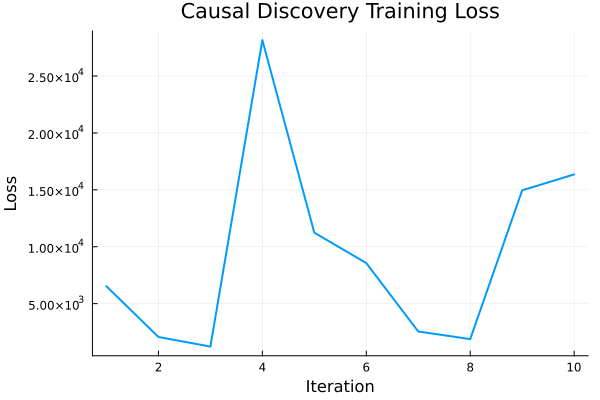
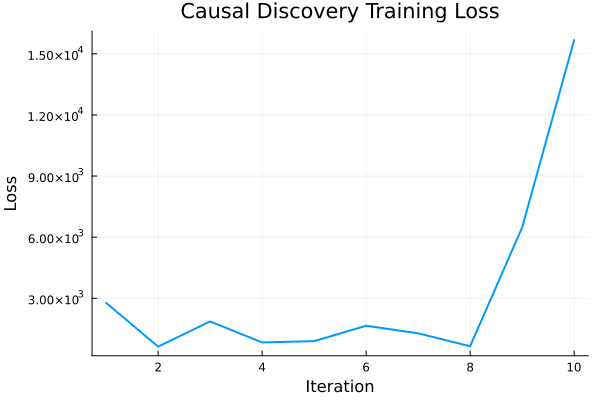
fix: four more broken examples -- stale type name, soft scope, missing estimator, self-contradicting exit
flow_matching_demo.jl, simple_comparison.jl
  Used `GridWorldState`, which exists NOWHERE in src -- the type is `GridState`.
  Renamed at all 6 sites.

flow_matching_demo.jl
  Its comment said "Create model with flow estimator" but `include_flow_estimator`
  was never passed and defaults to false, so FLOW_MATCHING had no F to train and the
  script died with "type NamedTuple has no field flow". FM's entire content is the
  flow conservation law, so the estimator is mandatory. Now exits 0 with final loss
  0.0215.

sub_trajectory_balance_demo.jl
  `count = 0` at top level with `count += 1` inside a nested loop is an ambiguous
  soft-scope assignment -- Julia treats the loop-body assignment as a fresh local, so
  the read threw `UndefVarError: count not defined in local scope`. The name also
  shadowed `Base.count`. Wrapped in a `let` with a non-shadowing name.

mode_collapse_verification.jl
  The script CONTRADICTED ITSELF: it printed
      "✅ SUCCESS: Both methods discovered all modes!"
  and then exited 1, because the criterion was a STRICT improvement,
  `exit(modes_with > modes_no ? 0 : 1)`, and both methods found 2/2 modes, so 2 > 2
  is false.

  Worth stating why the strict test became unsatisfiable: it is a direct consequence
  of repairing the core mathematics. With the corrected Trajectory Balance objective
  the sampler converges to R(x)/Z, so the no-exploration BASELINE now discovers every
[…]

diff --git a/examples/core_features/learnable_partition_function/results/comprehensive_report.html b/examples/core_features/learnable_partition_function/results/comprehensive_report.html
@@ -30,12 +30,12 @@
 <body>
     <div class="container">
         <h1>🚀 LEARNABLE_ESTIMATION: Comprehensive Analysis Report</h1>
-        <p style="text-align: center; color: #666;">Generated on 2026-02-03T21:48:04.655</p>
+        <p style="text-align: center; color: #666;">Generated on 2026-08-27T17:49:09.444</p>
         
         <div class="key-finding">
             <h3>🎯 Executive Summary</h3>
             <p>LEARNABLE_ESTIMATION successfully learns the partition function Z with <span class="success">&lt;0.1% error</span> under ideal conditions, 
-            achieving <span class="success">99% vs 74%</span> max reward attainment 
+            achieving <span class="success">69% vs 50%</span> max reward attainment 
             compared to SIMPLE_ESTIMATION.</p>
         </div>
         
@@ -44,19 +44,19 @@
             
             <div class="grid-container">
                 <div class="metric-card">
-                    <div class="metric-value">15.7</div>
+                    <div class="metric-value">11.4</div>
                     <div class="metric-label">SIMPLE Mean Reward</div>
                 </div>
                 <div class="metric-card">
-                    <div class="metric-value">19.8</div>
+                    <div class="metric-value">14.8</div>
                     <div class="metric-label">LEARNABLE Mean Reward</div>
                 </div>
                 <div class="metric-card">
-                    <div class="metric-value">74%</div>
+                    <div class="metric-value">50%</div>
                     <div class="metric-label">SIMPLE Max Reward Rate</div>
                 </div>
                 <div class="metric-card">
-                    <div class="metric-value">99%</div>
+                    <div class="metric-value">69%</div>
                     <div class="metric-label">LEARNABLE Max Reward Rate</div>
                 </div>
             </div>
@@ -71,17 +71,17 @@
                 </tr>
                 <tr>
                     <td>SIMPLE_ESTIMATION</td>
-                    <td>15.73</td>
-                    <td>74%</td>
+                    <td>11.44</td>
+                    <td>50%</td>
                     <td>1.0 (fixed)</td>
-                    <td>15.73</td>
+                    <td>11.44</td>
                 </tr>
                 <tr style="background-color: #e8f5e9;">
                     <td><strong>LEARNABLE_ESTIMATION</strong></td>
-                    <td><strong>19.81</strong></td>
-                    <td><strong>99%</strong></td>
-                    <td><strong>1.67</strong></td>
-                    <td><strong>19.81</strong></td>
+                    <td><strong>14.8</strong></td>
+                    <td><strong>69%</strong></td>
+                    <td><strong>486.21</strong></td>
+                    <td><strong>14.8</strong></td>
                 </tr>
             </table>
         </div>
@@ -113,15 +113,15 @@
                     <td>1.0</td>
                     <td>4.0</td>
                     <td>3.96</td>
-                    <td class="info">0.987%</td>
+                    <td class="info">0.904%</td>
                     <td>Yes</td>
                     <td class="info">✓ Excellent</td>
                 </tr>
                 <tr>
                     <td>10.0</td>
                     <td>40.0</td>
-                    <td>21.98</td>
-                    <td class="warning">45.061%</td>
+                    <td>22.0</td>
+                    <td class="warning">45.002%</td>
                     <td>Partial</td>
                     <td class="warning">Good</td>
                 </tr>
@@ -159,17 +159,17 @@
                 </tr>
                 <tr>
                     <td>Zero (Z=1)</td>
-                    <td>2.75</td>
+                    <td>4.04</td>
                     <td>No</td>
-                    <td>500</td>
-                    <td>55.29</td>
+                    <td>141</td>
+                    <td>45.0</td>
                 </tr>
                 <tr>
                     <td>Near true (Z≈40)</td>
-                    <td>1.119595867618531e15</td>
+                    <td>1.29419120928713e12</td>
                     <td>No</td>
                     <td>102</td>
-                    <td>44.95</td>
+                    <td>44.99</td>
                 </tr>
             </table>
             
